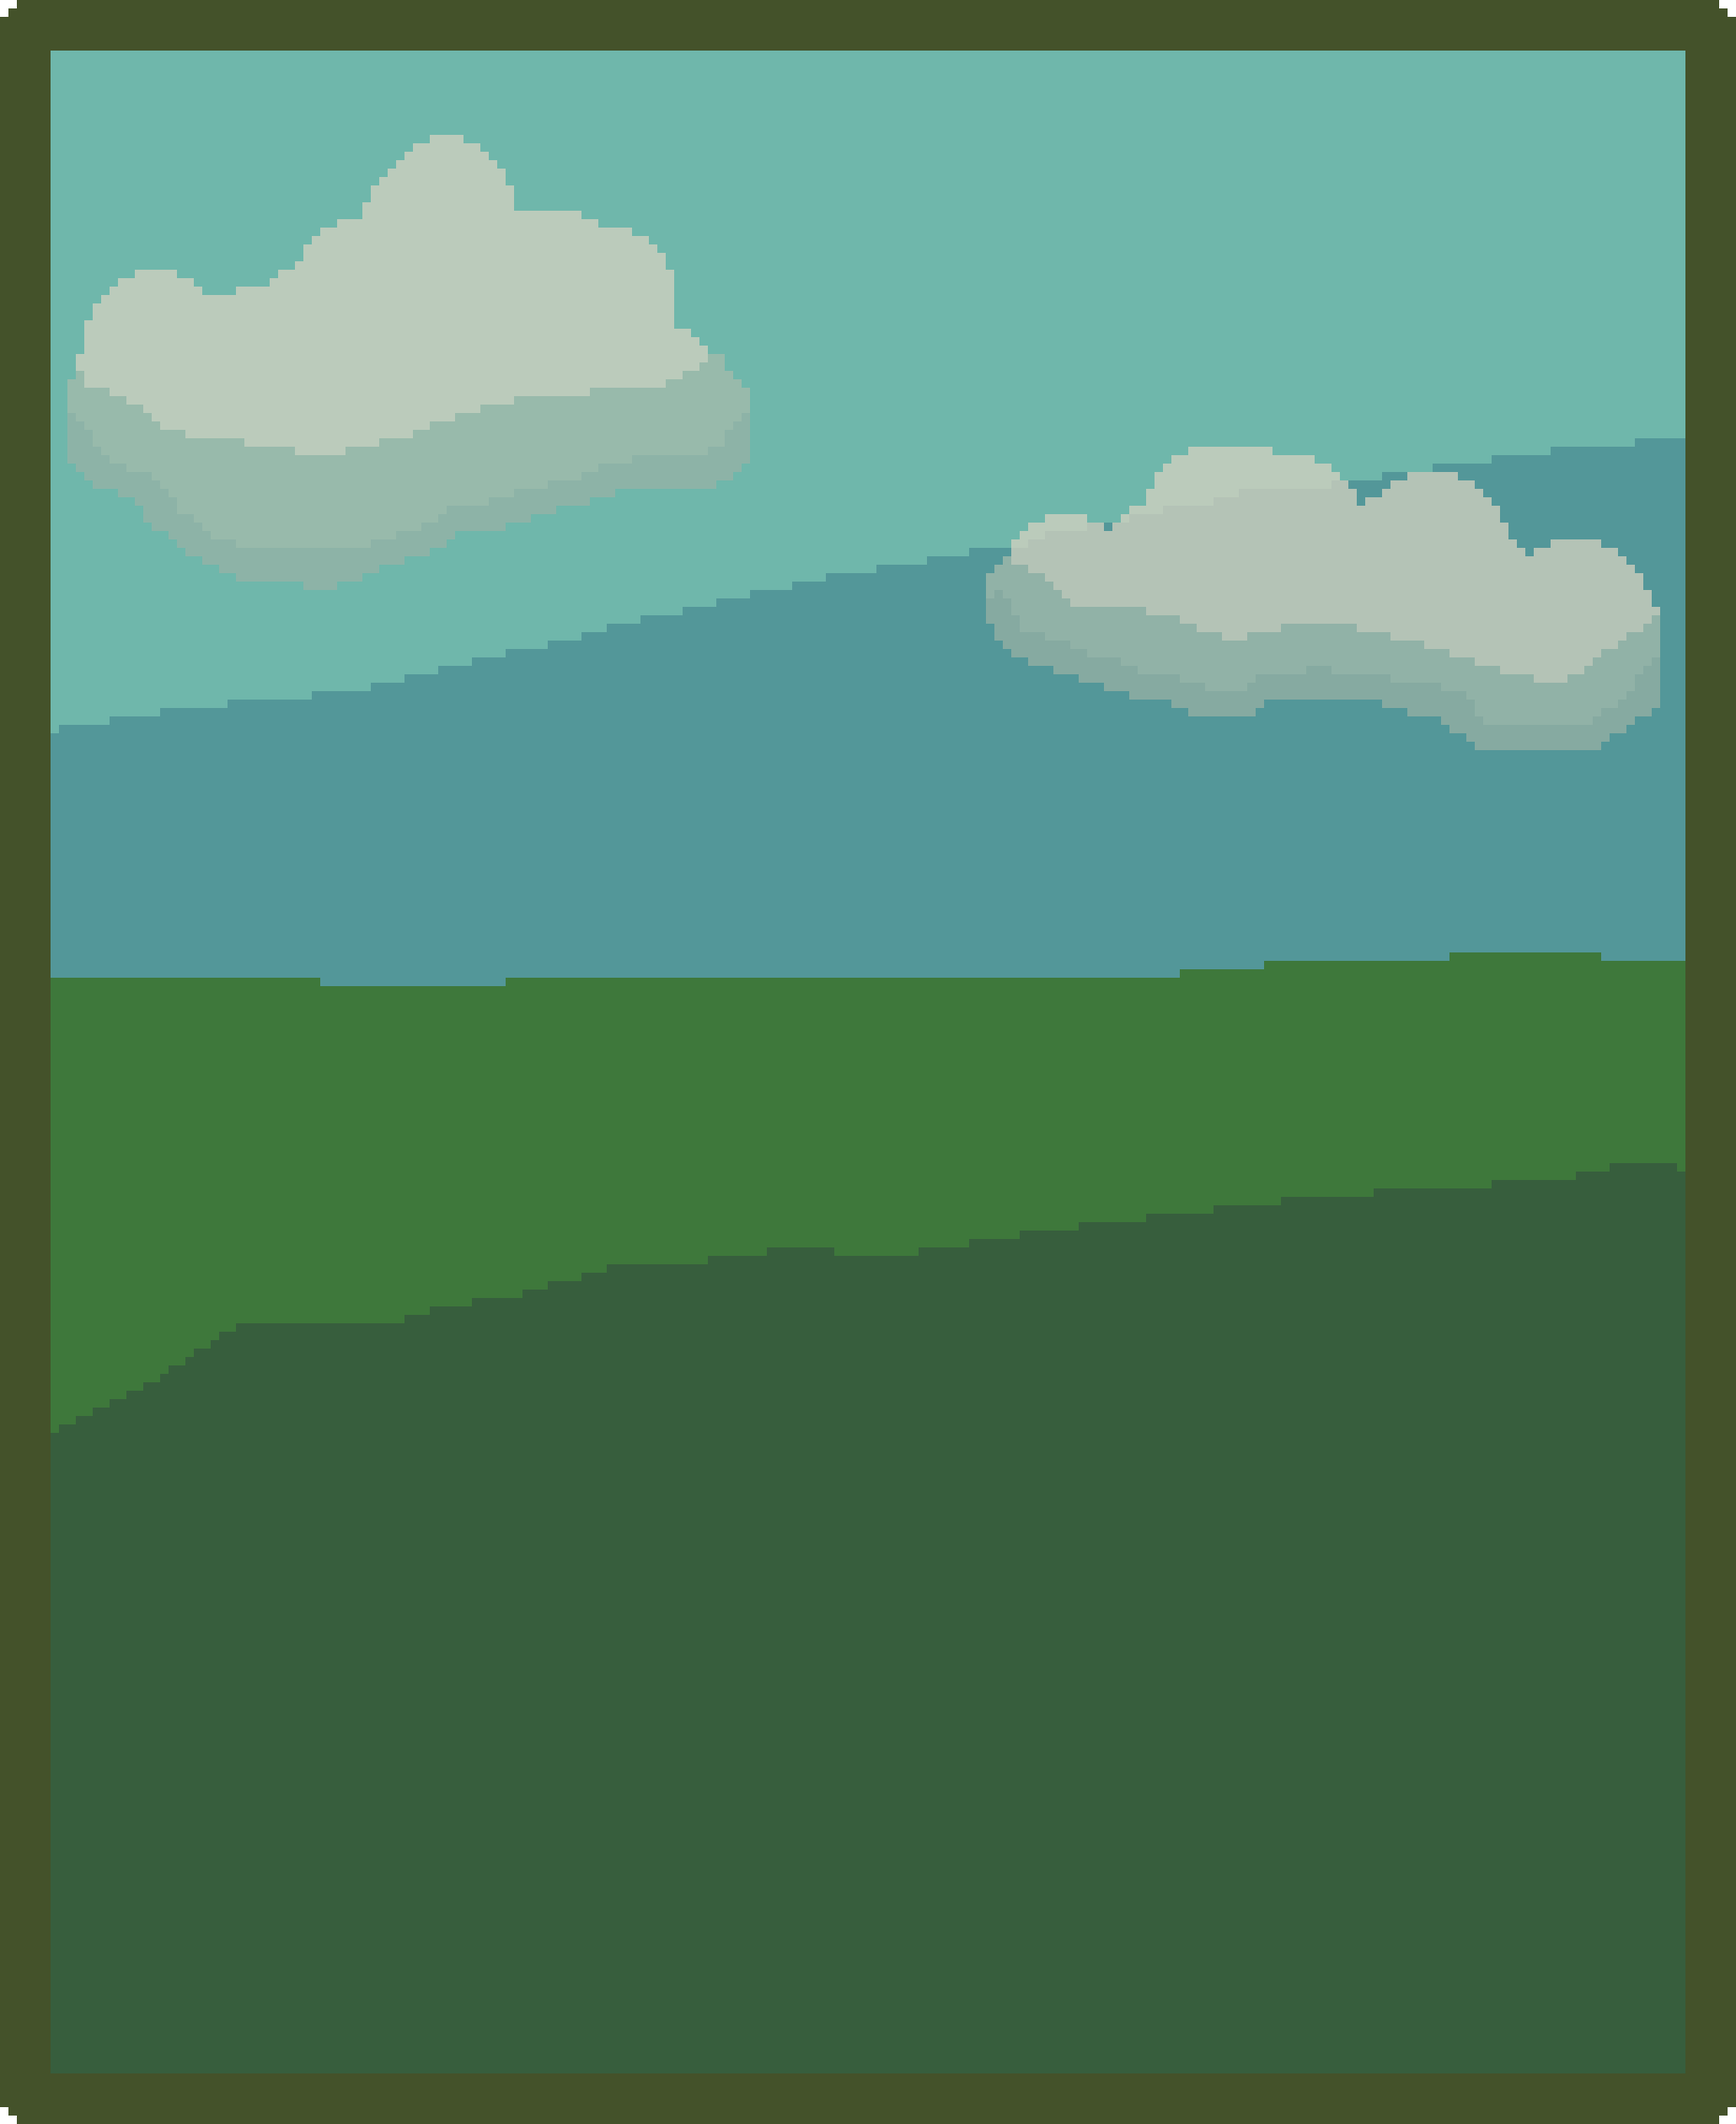
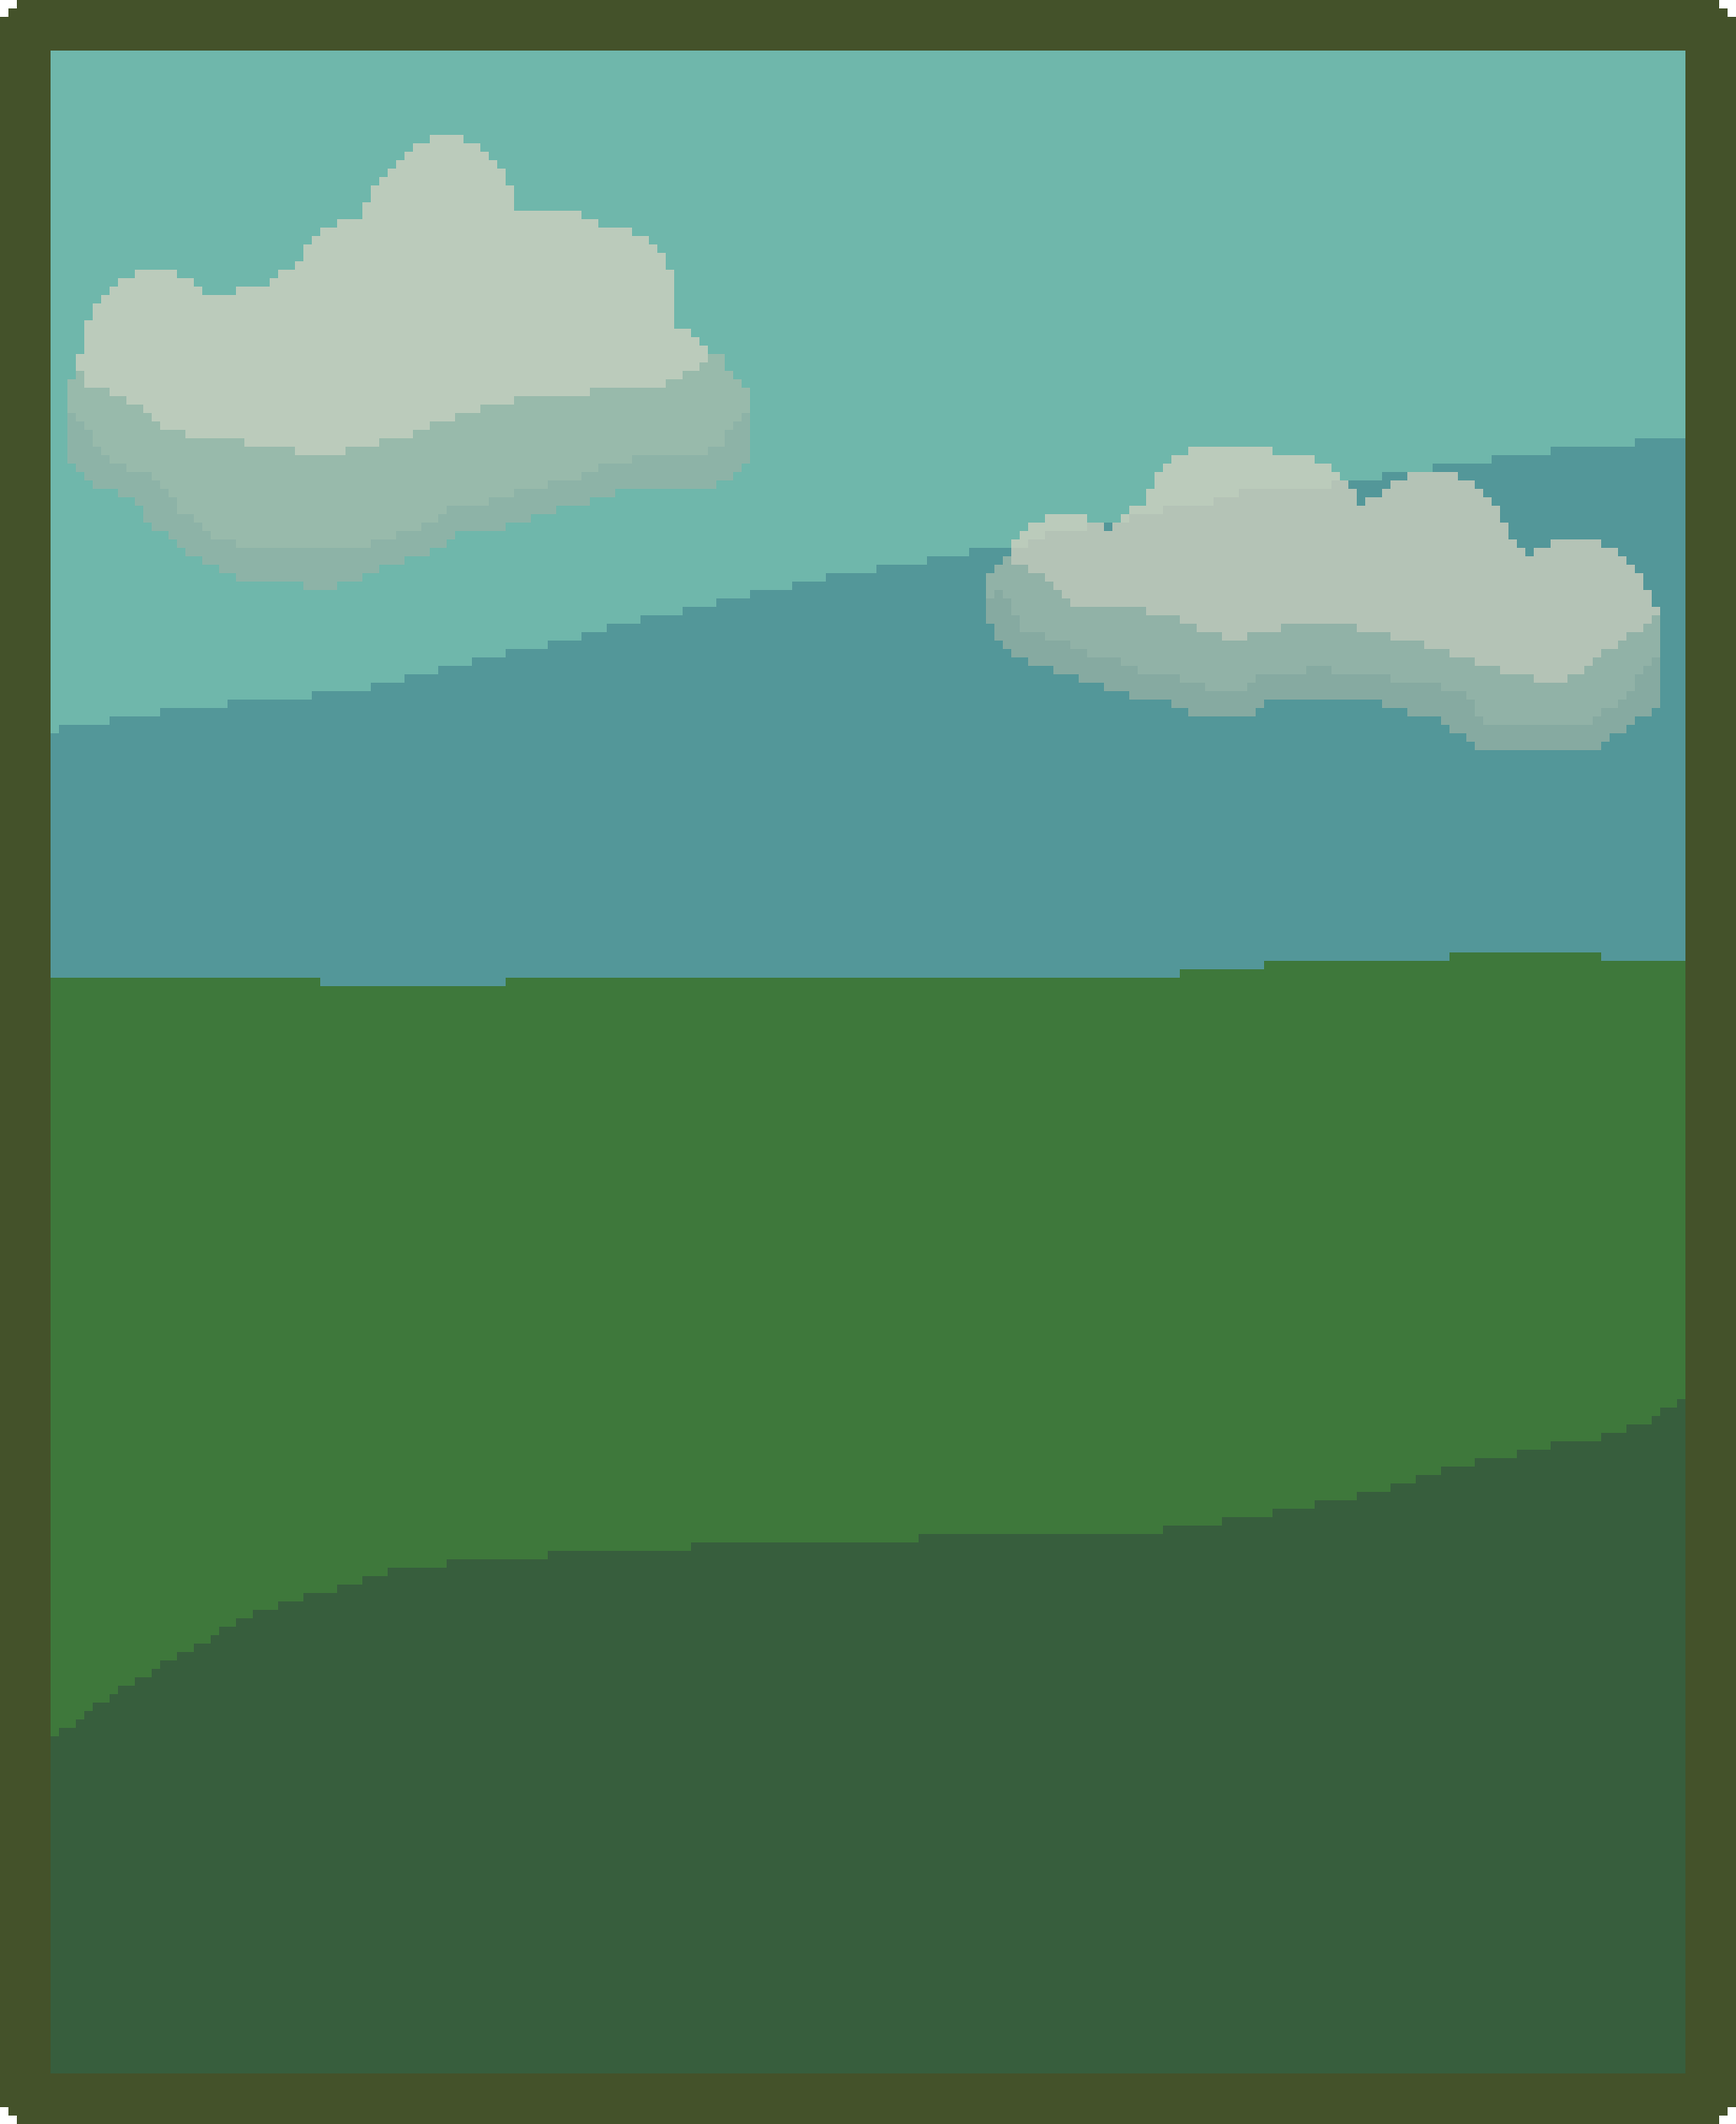
minor background changes, added clickable bushes and flowers with locked positions

Changed region(s): [[0.0311, 0.5262, 0.9942, 0.8357]]

diff --git a/app/src/main/java/com/habittracker/rootreflect/history/HistoryScreen.kt b/app/src/main/java/com/habittracker/rootreflect/history/HistoryScreen.kt
@@ -4,6 +4,7 @@ import android.content.Context
 import android.graphics.drawable.Drawable
 import androidx.compose.foundation.Image
 import androidx.compose.foundation.clickable
+import androidx.compose.foundation.interaction.MutableInteractionSource
 import androidx.compose.foundation.layout.Arrangement
 import androidx.compose.foundation.layout.Box
 import androidx.compose.foundation.layout.Column
@@ -25,6 +26,7 @@ import androidx.compose.material3.ExperimentalMaterial3Api
 import androidx.compose.material3.ModalBottomSheet
 import androidx.compose.material3.Text
 import androidx.compose.runtime.Composable
+import androidx.compose.runtime.remember
 import androidx.compose.ui.Alignment
 import androidx.compose.ui.Modifier
 import androidx.compose.ui.graphics.Color
@@ -33,6 +35,7 @@ import androidx.compose.ui.graphics.painter.BitmapPainter
 import androidx.compose.ui.layout.ContentScale
 import androidx.compose.ui.platform.LocalContext
 import androidx.compose.ui.text.style.TextAlign
+import androidx.compose.ui.unit.Dp
 import androidx.compose.ui.unit.dp
 import androidx.core.graphics.drawable.toBitmap
 import java.io.IOException
@@ -47,9 +50,18 @@ fun HistoryScreen(
 ) {
     Column {
         Text(text = "History Screen")
-        Box(){
+        Box {
             Background()
             TreeClick(onEvent = onEvent, state = state)
+            BushClick(onEvent = onEvent, state = state, bush = "images/bush1.png", offsetX = 50.dp, offsetY = 200.dp ) // do again with bush random return val
+            BushClick(onEvent = onEvent, state = state, bush = "images/bush2.png", offsetX = 160.dp, offsetY = 250.dp)
+            BushClick(onEvent = onEvent, state = state, bush = "images/bush3.png", offsetX = 260.dp, offsetY = 220.dp)
+            FlowerClick(onEvent = onEvent, state = state, flower = "images/blueflower.png", offsetX = 55.dp, offsetY = 295.dp)
+            FlowerClick(onEvent = onEvent, state = state, flower = "images/orangeflower.png", offsetX = (-100).dp, offsetY = 275.dp)
+            FlowerClick(onEvent = onEvent, state = state, flower = "images/pinkflower.png", offsetX = (-65).dp, offsetY = 300.dp)
+            FlowerClick(onEvent = onEvent, state = state, flower = "images/yelloworangeflower.png", offsetX = 120.dp, offsetY = 310.dp)
+            FlowerClick(onEvent = onEvent, state = state, flower = "images/blueflower.png", offsetX = (-120).dp, offsetY = 320.dp)
+            FlowerClick(onEvent = onEvent, state = state, flower = "images/yelloworangeflower.png", offsetX = (-10).dp, offsetY = 315.dp)
 
         }
         Spacer(modifier = Modifier.weight(1f))
@@ -106,7 +118,7 @@ fun InfoSheet(onEvent: (HistoryEvent) -> Unit, state: HistoryState){
                 Column {
                     if (state.selectedMood != "No mood") {
                         Text(
-                            text = "On the " + state.selectedDate?.dayOfMonth.toString() + ". of "
+                            text = "On the " + state.selectedDate?.dayOfMonth.toString() + " of "
                                     + state.selectedDate?.month?.name?.substring(0, 1)
                                     + state.selectedDate?.month?.name?.substring(1)?.lowercase()
                                     + " " + state.selectedYear.toString()
@@ -117,7 +129,7 @@ fun InfoSheet(onEvent: (HistoryEvent) -> Unit, state: HistoryState){
                     }
                     else {
                         Text(
-                            text = "On the " + state.selectedDate?.dayOfMonth.toString() + ". of "
+                            text = "On the " + state.selectedDate?.dayOfMonth.toString() + " of "
                                 + state.selectedDate?.month?.name?.substring(0, 1)
                                 + state.selectedDate?.month?.name?.substring(1)?.lowercase()
                                 + " " + state.selectedYear.toString()
@@ -239,7 +251,7 @@ fun Background (){
 }
 
 @Composable
-fun FlowerClick(onEvent: (HistoryEvent) -> Unit, state: HistoryState, flower: String){
+fun FlowerClick(onEvent: (HistoryEvent) -> Unit, state: HistoryState, flower: String, offsetX: Dp, offsetY: Dp){
     val drawable = loadImageFromAssets(LocalContext.current, flower)
     val bitmap = drawable?.toBitmap()?.asImageBitmap()
     bitmap?.let { BitmapPainter(it) }?.let {
@@ -250,17 +262,23 @@ fun FlowerClick(onEvent: (HistoryEvent) -> Unit, state: HistoryState, flower: St
             contentScale = ContentScale.Fit,
             modifier = Modifier
                 .fillMaxWidth()
-                .height(height = 400.dp))
-
+                .height(height = 65.dp)
+                .offset(offsetX, offsetY)
+                .clickable(indication = null,
+                    interactionSource = remember {
+                        MutableInteractionSource()
+                    }) { onEvent(HistoryEvent.EnableBottomSheet) }
+        )
     }
 }
 
-@Composable
-fun FlowerRandom(){
+//@Composable
+//fun FlowerRandom(){
+//
+//}
 
-}
 @Composable
-fun BushClick(onEvent: (HistoryEvent) -> Unit, state: HistoryState, bush: String){
+fun BushClick(onEvent: (HistoryEvent) -> Unit, state: HistoryState, bush: String, offsetX: Dp, offsetY: Dp){
     val drawable = loadImageFromAssets(LocalContext.current, bush)
     val bitmap = drawable?.toBitmap()?.asImageBitmap()
     bitmap?.let { BitmapPainter(it) }?.let {
@@ -270,17 +288,21 @@ fun BushClick(onEvent: (HistoryEvent) -> Unit, state: HistoryState, bush: String
             alignment = Alignment.Center,
             contentScale = ContentScale.Crop,
             modifier = Modifier
-                .height(height = 225.dp)
-                .offset(100.dp, 15.dp)
-                .clickable { onEvent(HistoryEvent.EnableBottomSheet) })
-
+                .height(height = 65.dp)
+                .offset(offsetX, offsetY)
+                .clickable(indication = null,
+                    interactionSource = remember {
+                        MutableInteractionSource()
+                    }) { onEvent(HistoryEvent.EnableBottomSheet) }
+        )
     }
 }
 
-@Composable
-fun BushRandom(){
+//@Composable
+//fun BushRandom(){
+//
+//}
 
-}
 @Composable
 fun TreeClick(onEvent: (HistoryEvent) -> Unit, state: HistoryState){
     val drawable = loadImageFromAssets(LocalContext.current, "images/tree.png")
@@ -293,16 +315,14 @@ fun TreeClick(onEvent: (HistoryEvent) -> Unit, state: HistoryState){
             alignment = Alignment.Center,
             contentScale = ContentScale.Crop,
             modifier = Modifier
-                .height(height =  225.dp)
+                .height(height = 225.dp)
                 .offset(100.dp, 15.dp)
-                .clickable { onEvent(HistoryEvent.EnableBottomSheet) }
-     )
+                .clickable(indication = null,
+                    interactionSource = remember {
+                        MutableInteractionSource()
+                    }) { onEvent(HistoryEvent.EnableBottomSheet) }
+        )
     }
-}
-
-@Composable
-fun TreeRandom(){
-
 }
 
 fun loadImageFromAssets(context: Context, filename: String): Drawable? {
